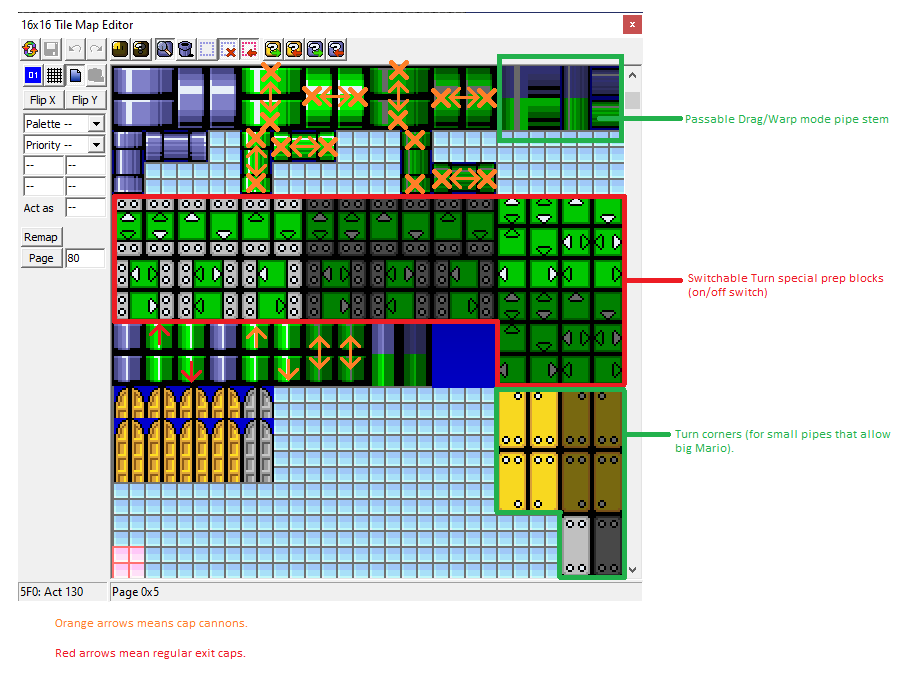
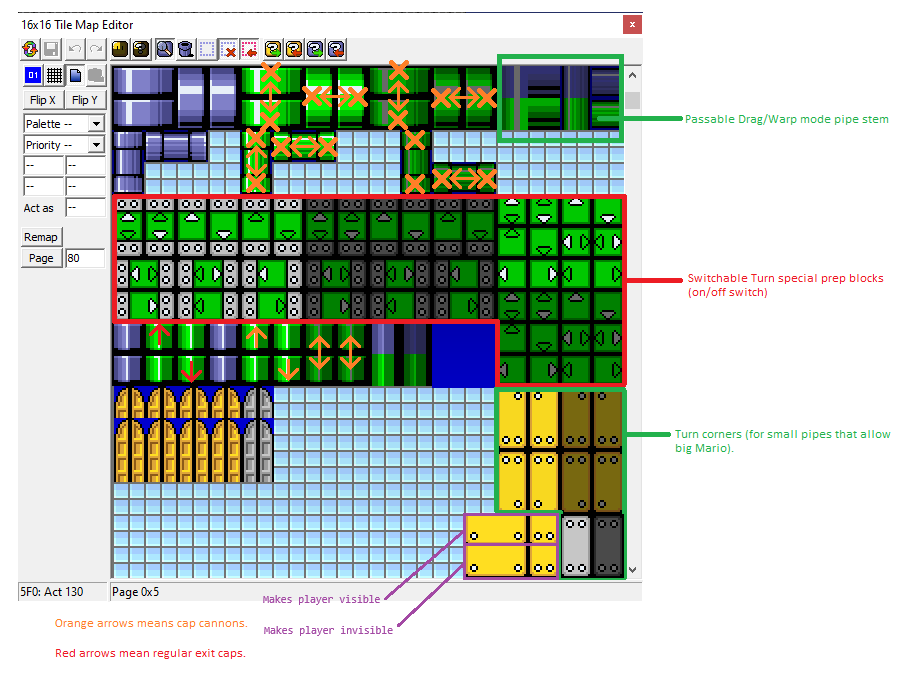
...

diff --git a/Readme.html b/Readme.html
@@ -449,7 +449,10 @@ print "A simple test block that behaves differently depending on if the player i
 			<li>
 				Same goes for custom sprites and other third-party ASM resources. Use <kbd>incsrc "&lt;path_to_SSP_defines&gt;"</kbd> (file paths must be wrapped in quotes if it has spaces) to obtain <kbd>!Freeram_SSP_PipeDir</kbd>, use it for checking its low nybble, and ignore when nonzero.
 			</li>
-			<li>If you have <kbd>!Setting_SSP_HideDuringPipeStemTravel</kbd> set to <kbd>0</kbd> in the defines, the player remains visible even when he is in the gap he's passing through. The exception of that is entering through screen scrolling doors or using warp/drag mode.</li>
+			<li>
+				If you have <kbd>!Setting_SSP_HideDuringPipeStemTravel</kbd> set to <kbd>0</kbd> in the defines, the player remains visible even when he is in the gap he's passing through. The exception of that is entering through screen scrolling doors or using warp/drag mode. Otherwise you can use
+				<kbd>set_visibility_off.asm</kbd> to hide the player just before the gap and <kbd>set_visibility_on.asm</kbd> to force the player to be visible after traversing the gap.
+			</li>
 		</ul>
 	<li>If you enter a pipe, while yoshi exist, yoshi will also turn invisible (with some 8x8 pieces still visible), I couldn't fix that.</li><br>
 	<li>The routine file is also SA-1 hybrid, no need to worry about yoshi issues about it. However, you must use RAM address in banks $40/$41 should you need to use 3-byte addressing ($4XXXXX)</li><br>
